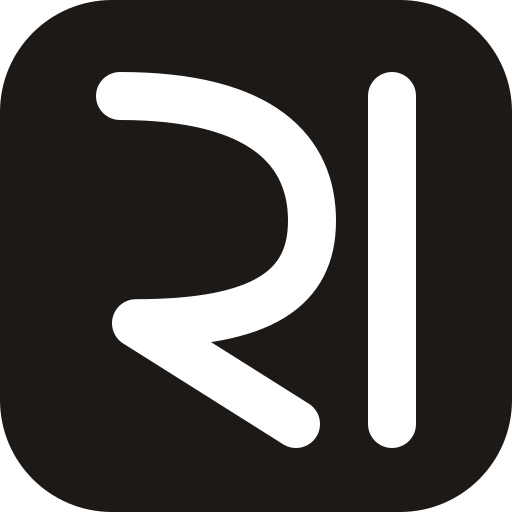
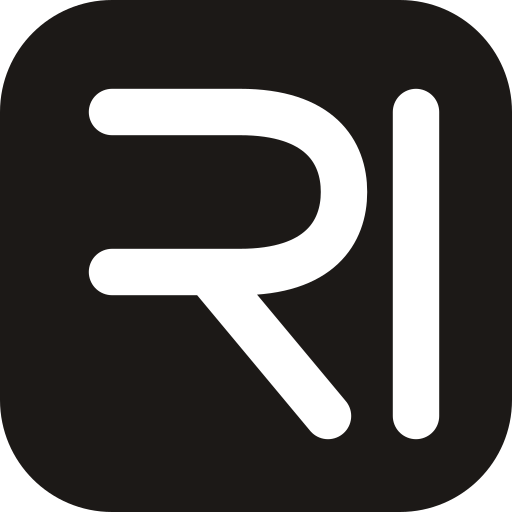
feat: calibrated geometric R -> turn and drop -> settled 'रा' mark with exact straight lines, U-turn, diagonal line, and optical gap

Changed region(s): [[0.1562, 0.125, 0.875, 0.875], [0.1562, 0.4688, 0.6875, 0.875]]

diff --git a/src/components/RaastaLogo.tsx b/src/components/RaastaLogo.tsx
@@ -8,10 +8,12 @@ interface RaastaLogoProps {
 
 /**
  * Raasta Brand Mark:
- * 1. Begins as a 100% proper, geometric Latin capital 'R' (Left vertical straight spine + clean upper bowl + diagonal leg).
- * 2. The straight vertical line lifts from the top, takes an elegant smooth turn across the loop,
- *    and with a calibrated optical gap, drops down on the right into a straight vertical pillar (aa-matra).
- * 3. The left structure stands as the Devanagari 'र', forming the iconic 'रा' (Raasta).
+ * Geometric precision:
+ * - Straight top line
+ * - Smooth U-turn
+ * - Straight return line
+ * - Perfect diagonal line
+ * - With calibrated space: the straight line vertically standing on the right (forming 'रा' after traveling from the left 'R' position).
  */
 export function RaastaLogo({
   className = "h-5 w-5",
@@ -33,12 +35,14 @@ export function RaastaLogo({
       aria-label="Raasta Logo (R → Turn & Drop → रा)"
     >
       {/* 
-        The Core Glyph:
-        In Latin 'R' mode (with left spine attached), this forms the upper loop and diagonal leg.
-        When the spine moves to the right, this stands alone as the Devanagari 'र'.
+        The Core Shape:
+        1. Straight top line: M 5.5 5 H 11.5
+        2. U-turn: C 15.2 5 16.5 7 16.5 9 C 16.5 11 15.2 13 11.5 13
+        3. Straight return line: H 5.5
+        4. Perfect diagonal line: M 10 13 L 15.8 20.5
       */}
       <path
-        d="M 5.5 4.5 H 11 C 14.8 4.5 16.5 6.8 16.5 9.5 C 16.5 12.2 14.8 13.5 11 13.5 H 5.5 M 10.5 13.5 L 16 20.5"
+        d="M 5.5 5 H 11.5 C 15.2 5 16.5 7 16.5 9 C 16.5 11 15.2 13 11.5 13 H 5.5 M 10 13 L 15.8 20.5"
         stroke="currentColor"
         strokeWidth="2.75"
         strokeLinecap="round"
@@ -46,23 +50,23 @@ export function RaastaLogo({
       />
 
       {/* 
-        The Moving Straight Spine:
-        - stage 'r': Solid vertical line on the left at x = 5.5 (forming perfect 'R').
-        - stage 'transforming': Lifts up, turns across the top header, and drops down on the right at x = 19.5.
-        - stage 'settled': Locked in place on the right at x = 19.5 (forming 'रा').
+        The Vertical Straight Line:
+        - stage 'r': Attached straight on the left at x = 5.5 (forming perfect Latin 'R').
+        - stage 'transforming': Lifts from top, takes a turn over the head, and drops on the right.
+        - stage 'settled': Stands vertically straight on the right at x = 20 with calibrated space (forming 'रा').
       */}
       <g
         className={
           stage === "transforming"
             ? "animate-spine-turn-drop"
             : stage === "settled"
-            ? "translate-x-[14px]"
+            ? "translate-x-[14.5px]"
             : "translate-x-0"
         }
       >
         <line
           x1={5.5}
-          y1={4.5}
+          y1={5}
           x2={5.5}
           y2={20.5}
           stroke="currentColor"

diff --git a/src/app/apple-icon.tsx b/src/app/apple-icon.tsx
@@ -27,22 +27,22 @@ export default function AppleIcon() {
           fill="none"
           xmlns="http://www.w3.org/2000/svg"
         >
-          {/* Devanagari 'र' Upper Loop & Road Sweep */}
+          {/* Straight Top Line, U-Turn, Straight Return Line & Diagonal Line */}
           <path
-            d="M 6 4.5 C 13 4.5 15.5 7.2 15.5 10.5 C 15.5 13.8 13 15.5 6.5 15.5 L 14.5 20.5"
+            d="M 5.5 5 H 11.5 C 15.2 5 16.5 7 16.5 9 C 16.5 11 15.2 13 11.5 13 H 5.5 M 10 13 L 15.8 20.5"
             stroke="#ffffff"
-            strokeWidth="2.8"
+            strokeWidth="2.75"
             strokeLinecap="round"
             strokeLinejoin="round"
           />
-          {/* Devanagari 'ा' Vertical Pillar (Aa-Matra) */}
+          {/* Vertical Straight Line with Optical Gap */}
           <line
-            x1="19.2"
-            y1="4.5"
-            x2="19.2"
+            x1="20"
+            y1="5"
+            x2="20"
             y2="20.5"
             stroke="#ffffff"
-            strokeWidth="2.8"
+            strokeWidth="2.75"
             strokeLinecap="round"
           />
         </svg>

diff --git a/src/app/icon.tsx b/src/app/icon.tsx
@@ -27,22 +27,22 @@ export default function Icon() {
           fill="none"
           xmlns="http://www.w3.org/2000/svg"
         >
-          {/* Devanagari 'र' Upper Loop & Road Sweep */}
+          {/* Straight Top Line, U-Turn, Straight Return Line & Diagonal Line */}
           <path
-            d="M 6 4.5 C 13 4.5 15.5 7.2 15.5 10.5 C 15.5 13.8 13 15.5 6.5 15.5 L 14.5 20.5"
+            d="M 5.5 5 H 11.5 C 15.2 5 16.5 7 16.5 9 C 16.5 11 15.2 13 11.5 13 H 5.5 M 10 13 L 15.8 20.5"
             stroke="#ffffff"
-            strokeWidth="2.8"
+            strokeWidth="2.75"
             strokeLinecap="round"
             strokeLinejoin="round"
           />
-          {/* Devanagari 'ा' Vertical Pillar (Aa-Matra) */}
+          {/* Vertical Straight Line with Optical Gap */}
           <line
-            x1="19.2"
-            y1="4.5"
-            x2="19.2"
+            x1="20"
+            y1="5"
+            x2="20"
             y2="20.5"
             stroke="#ffffff"
-            strokeWidth="2.8"
+            strokeWidth="2.75"
             strokeLinecap="round"
           />
         </svg>

diff --git a/src/app/globals.css b/src/app/globals.css
@@ -136,10 +136,10 @@ body {
     transform: translate(8.5px, -4px) rotate(0deg);
   }
   75% {
-    transform: translate(14px, -1.5px) rotate(-3deg);
+    transform: translate(14.5px, -1.5px) rotate(-3deg);
   }
   100% {
-    transform: translate(14px, 0px) rotate(0deg);
+    transform: translate(14.5px, 0px) rotate(0deg);
   }
 }
 
